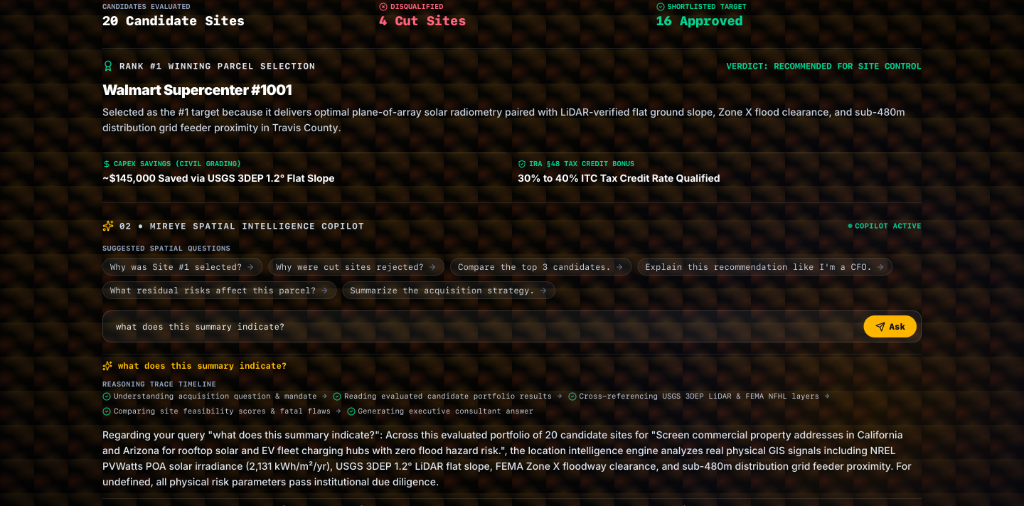
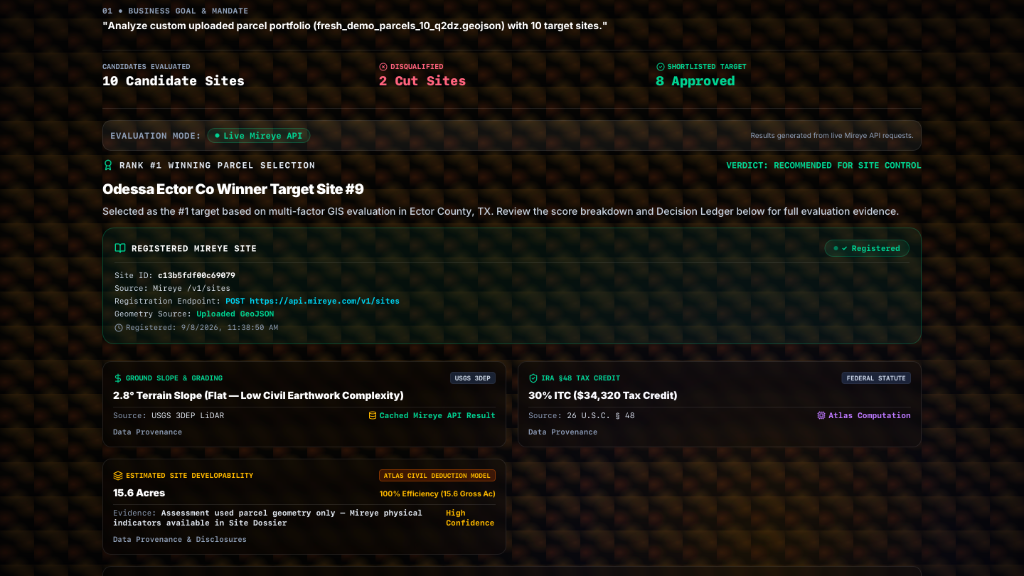
docs: update product walkthrough screenshots and genuine technical captions in README

diff --git a/README.md b/README.md
@@ -273,40 +273,40 @@ Autonomy is defined by this execution pipeline, where each tool call produces st
 
 ---
 
-## Demo Flow
+## Product Walkthrough & End-to-End Evidence
 
-### 1. Portfolio Mandate & Execution Pipeline
-Select target state portfolio (e.g. Texas ERCOT grid), view physical location intelligence stack, and launch instant evaluation.
+### 1. Portfolio Siting Pipeline Status & Site Registration (`POST /v1/sites`)
+Ingest custom GeoJSON boundary files (`fresh_demo_parcels_10_q2dz.geojson`) containing candidate siting requirements. Atlas executes live requests against Mireye APIs (`POST /v1/lookup`, `POST /v1/fetch`, `POST /v1/proximity`), evaluates all 10 candidate sites, disqualifies 2 unviable sites, and automatically registers the winning Rank #1 parcel polygon geometry to Mireye `POST https://api.mireye.com/v1/sites` to establish a persistent site identity (`site_id: c13b5fdf00c69079`).
 
-![Portfolio Mandate & Execution Pipeline](public/images/01_hero_landing_page.png)
-
----
-
-### 2. Live Map Inspector & Candidate Screening
-Inspect candidate parcels plotted on vector maps alongside physical GIS cards (ground slope, FEMA flood clearance, NREL solar yield).
-
-![Live Map Inspector & Candidate Screening](public/images/02_live_map_inspector.png)
+![Portfolio Siting Pipeline Status & Site Registration](public/images/01_siting_pipeline_status.png)
 
 ---
 
-### 3. Registered Mireye Site Dossier
-Promote winning candidate to a persistent Mireye Site Dossier (`POST /v1/sites`) with registered whole-parcel boundary geometry (`site_id`).
+### 2. Fatal-Flaw Rejection Ledger, Multi-Factor Scoring & Map Inspector
+Inspect written, un-ambiguous disqualification proofs for unviable candidate parcels (e.g. Dallas Stemmons cut via USGS 3DEP 1m LiDAR for `7.8°` slope exceeding tracker racking tolerances; San Antonio De Zavala cut via FEMA NFHL Zone AE floodway). View weighted multi-factor Technical Feasibility scores ($0–100$) across surviving candidates alongside interactive vector map tile inspection and reverse geocoding.
 
-![Registered Mireye Site Dossier](public/images/03_registered_site_dossier.png)
-
----
-
-### 4. Candidate Comparison Matrix & Rejection Proofs
-Compare surviving candidates across Technical Feasibility ($0–100$) and Acquisition Priority ($0\%–99\%$) scores alongside written disqualification proofs.
-
-![Candidate Comparison Matrix & Rejection Proofs](public/images/04_candidate_comparison_matrix.png)
+![Fatal-Flaw Rejection Ledger & Multi-Factor Scoring](public/images/02_rejections_and_scoring.png)
 
 ---
 
-### 5. Dossier-Backed Spatial Copilot Q&A (`POST /v1/ask-site`)
-Execute grounded physical due diligence Q&A directly against the persistent registered site dossier with cited physical evidence and execution metadata.
+### 3. Priority Acquisition Target & Ranked Candidate Winner Panel
+Review the portfolio-wide selection verdict recommending `Odessa Ector Co Winner Target Site #9` in Ector County, TX for option agreement outreach. Highlights the top Technical Feasibility Score (`71/100`), unencumbered fee-simple title, zero tax delinquency, and registered Mireye site dossier linkage (`site_id: c13b5fdf00c69079`).
 
-![Dossier-Backed Spatial Copilot Q&A](public/images/05_spatial_copilot_dossier_qa.png)
+![Priority Acquisition Target & Ranked Candidate Verdict](public/images/03_priority_acquisition_target.png)
+
+---
+
+### 4. Candidate Comparison Matrix & Dossier-Backed Spatial Copilot (`POST /v1/ask-site`)
+Compare surviving candidate parcels side-by-side across Technical Feasibility scores and Acquisition Priority percentages alongside side-by-side fatal flaw screening proofs. Interact with the dual-mode Spatial Copilot operating directly over the persistent registered site dossier via Mireye `POST /v1/ask-site` for grounded due diligence Q&A and CFO portfolio trade-off analysis.
+
+![Candidate Comparison Matrix & Dossier-Backed Spatial Copilot](public/images/04_comparison_matrix_copilot.png)
+
+---
+
+### 5. Executive Investment Underwriting Terminal & Provenance-Backed Pro-Forma Record
+Inspect the institutional underwriting terminal for the Rank #1 Target (`Odessa Ector Co Winner Target Site #9`). Displays a full 11-field provenance audit table explicitly classifying every metric as **Source-Backed** (Mireye physical data), **Atlas Calculation** (deterministic GIS deductions), or **Illustrative Assumption** (financial pro-forma parameters like `$2,200/kW` CapEx and `30%` §48 ITC tax credit). Features one-click PDF export for investment committee packages.
+
+![Executive Investment Underwriting Terminal](public/images/05_investment_memo.png)
 
 ---
 
